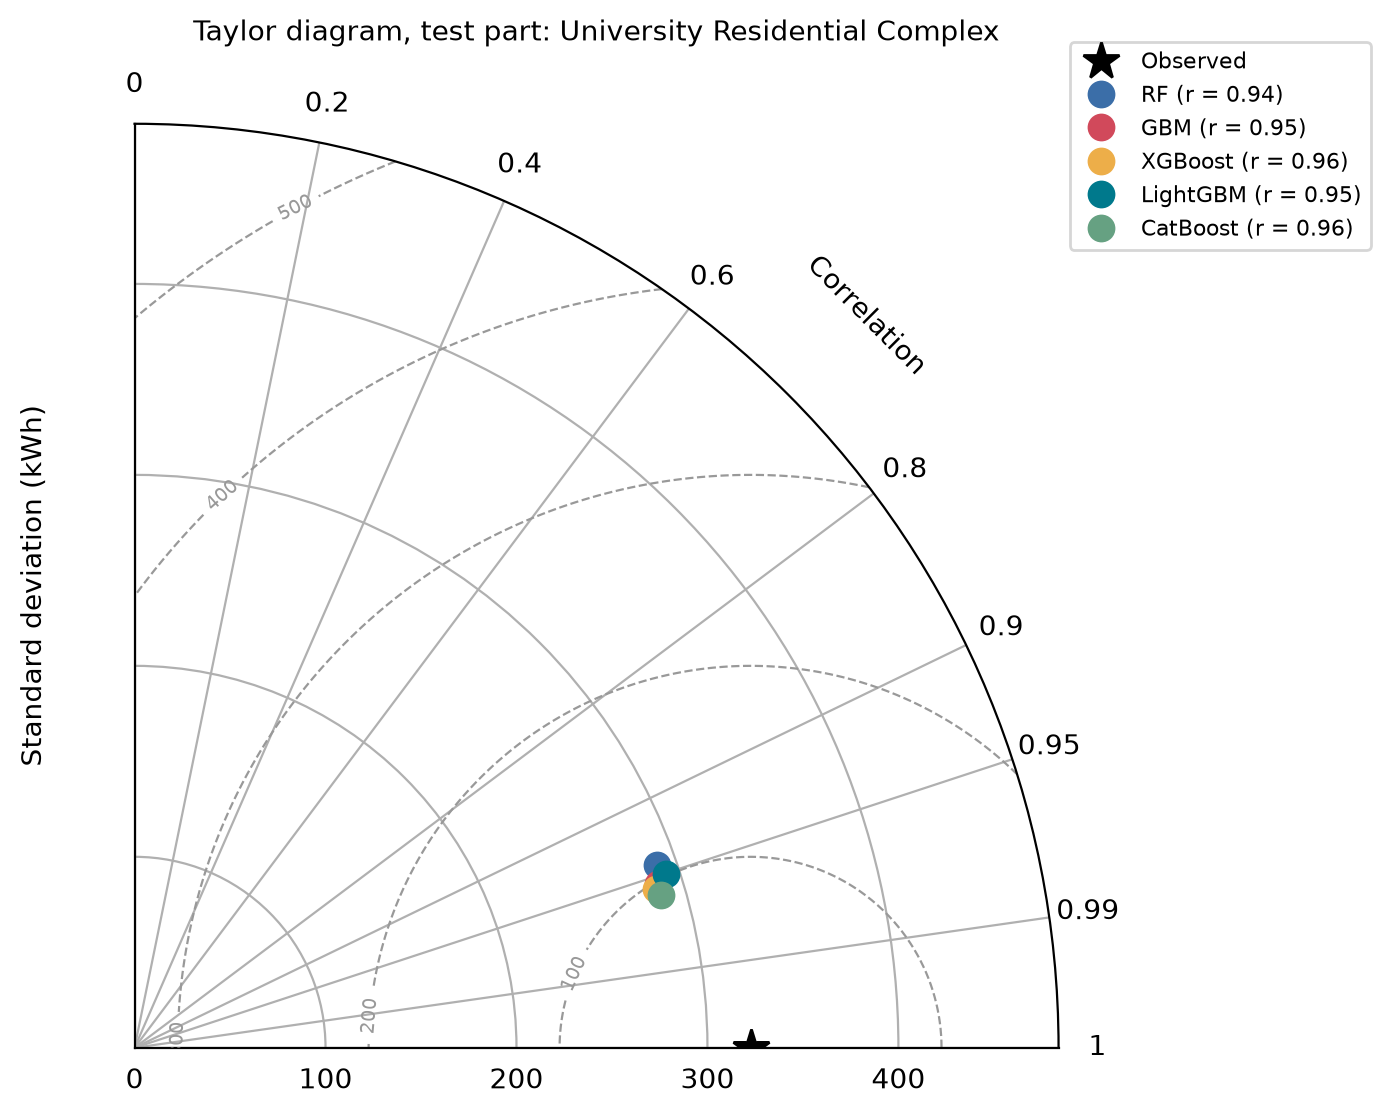
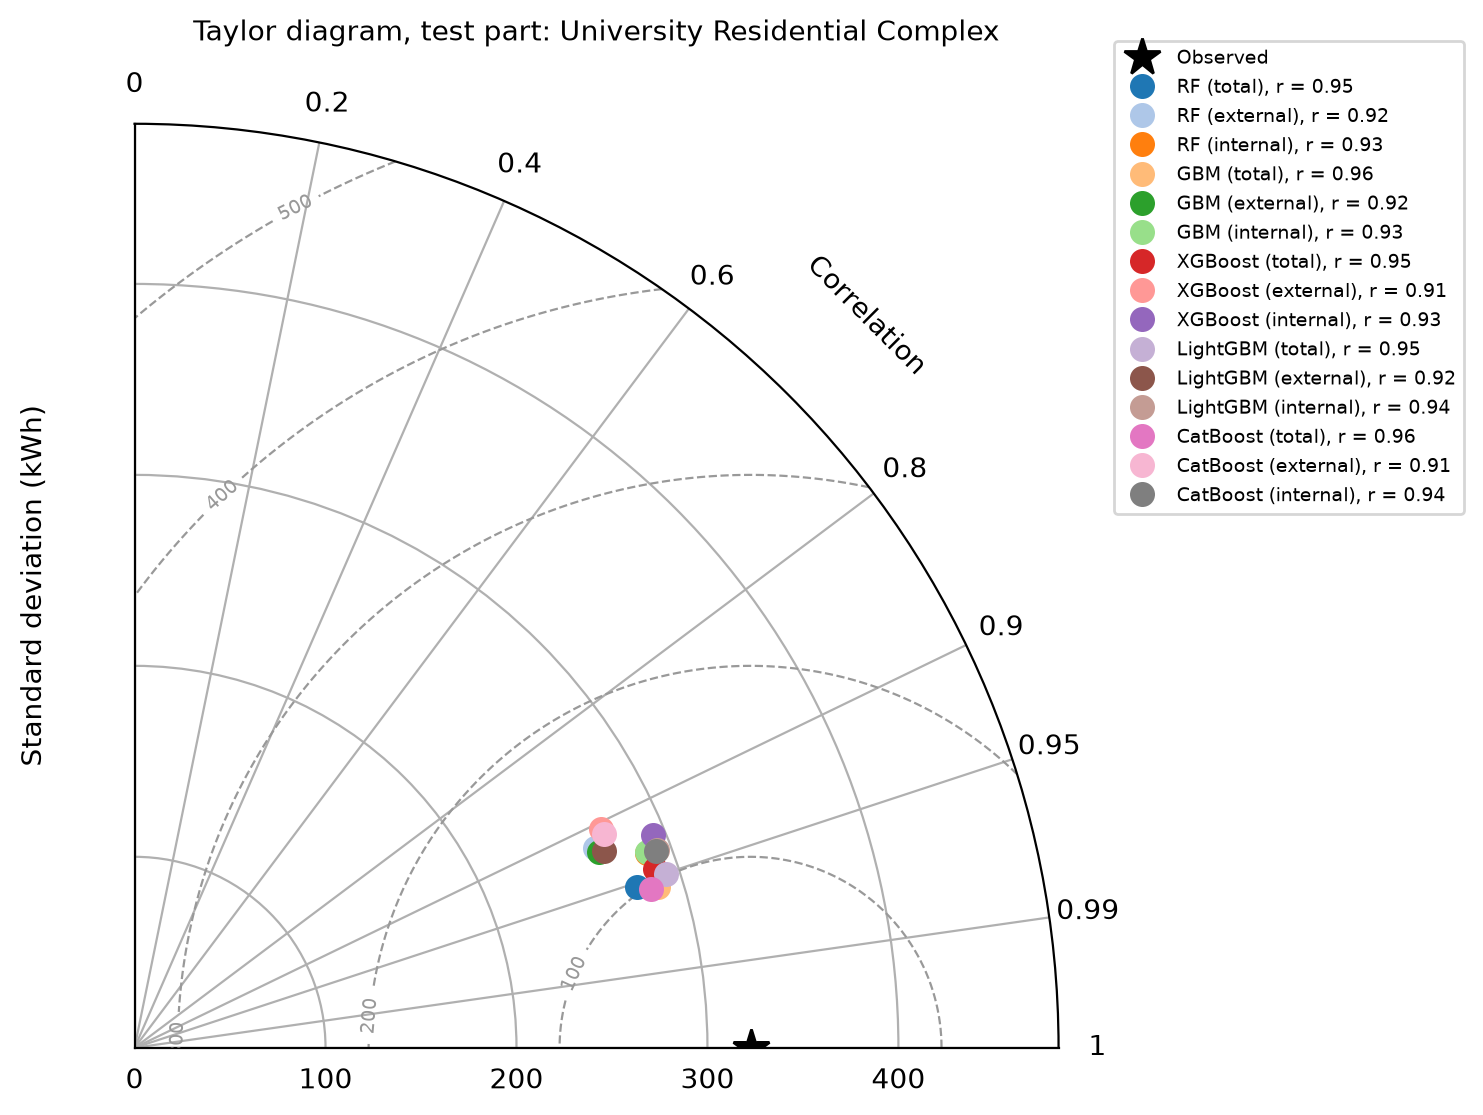
README results summary; final figures in docs/figures

diff --git a/README.md b/README.md
@@ -6,18 +6,50 @@ A from-scratch replication of
 > for residential building electricity consumption forecasting: Insight from explainable artificial intelligence.
 > *PLOS ONE*, 19(11), e0307654. https://doi.org/10.1371/journal.pone.0307654
 
-on both of its datasets: the UCI Appliances Energy Prediction data and the University Residential Complex data
-published in the [authors' repository](https://github.com/sodayeong/PLOS-ONE_Github).
-Every choice the article leaves open is recorded in [docs/replication_notes.md](docs/replication_notes.md).
+on both of its datasets: the UCI Appliances Energy Prediction (AEP) data and the University Residential Complex
+(dormitory) data published in the [authors' repository](https://github.com/sodayeong/PLOS-ONE_Github).
+Every choice the article leaves open is recorded in [docs/replication_notes.md](docs/replication_notes.md); the
+session-by-session history is in [docs/progress_log.md](docs/progress_log.md).
+
+## Results
+
+| Part of the paper | Match | Where |
+|---|---|---|
+| Data, hourly table, 15 inputs (Tables 1-2) | Exact: Table 1 for both datasets; our inputs equal the authors' feature table on all 3,289 hours | `tests/` |
+| Tree ensembles, dormitory (Tables 5-7, 11) | LightGBM, CatBoost exact; GBM within 0.01; RF within 0.05; XGBoost within 0.08 | [docs/results](docs/results) |
+| Tree ensembles, AEP (Tables 8-10, 12) | RF, CatBoost exact; LightGBM within 0.04; GBM, XGBoost within 1-3 points | [docs/results](docs/results) |
+| Taylor diagrams (Figs 2-3) | Point for point | [docs/figures](docs/figures) |
+| SHAP, feature importance, PDP (Figs 4-11) | Figs 4, 8, 10, 11 exact; 5, 9 near-exact; 6-7 close | [docs/figures](docs/figures) |
+| Raw-column experiment (Figs 12-13) | Fig 13 and RF in Fig 12 very close | [docs/figures](docs/figures) |
+| Deep networks (Tables 13-14) | Conclusion holds (the best ensemble beats every network); values close on the dormitory data, much worse on AEP | [docs/results](docs/results) |
+
+**Findings beyond the numbers**
+
+- **The published tables don't come from the tuning the article describes.** A 5-fold grid search per model and
+  input set gives AEP errors up to 18 MAPE points away from the paper. The tables come from one fixed setting per
+  model, hard-coded in the authors' notebook and reused for every input set. With those settings the tables
+  reproduce (CatBoost on AEP matches all 27 values exactly).
+- **Figure 12's R² values are in-sample.** The models reach R² up to 0.96 on the hours they were trained on. On
+  held-out weeks every model scores R² ≤ 0.05.
+- **Figure 11 is CatBoost on the training hours**, not GBM on the test set as the text says.
+- **The Conclusions contradict the tables.** For example, they name GBM with external inputs as best on AEP, while
+  Tables 10 and 12 show CatBoost with all 15 inputs.
+- **Deep networks on AEP overfit** when trained for the article's 100 epochs. The authors' notebook uses early
+  stopping, which the article doesn't mention.
 
 ## Layout
 
 | Path | Contents |
 |---|---|
-| `src/moon2024/` | Data loading, the 15 input variables, metrics |
+| `src/moon2024/data.py`, `features.py` | Hourly tables, the 15 input variables, the train/test split |
+| `src/moon2024/metrics.py` | MAPE, CVRMSE, NMAE, harmonic mean, by day type |
+| `src/moon2024/ensembles.py`, `run_ensembles.py`, `run_match.py` | Grid search, the authors' fixed settings, the search for which setting the paper used |
+| `src/moon2024/run_xai.py`, `taylor.py`, `run_raw_figures.py` | Figures 2-13 |
+| `src/moon2024/run_deep.py` | The ten deep networks (Tables 13-14) |
+| `src/moon2024/paper.py`, `compare.py` | The published tables, and ours next to them |
 | `tests/` | Table 1, the authors' feature table, the split, leakage and metric checks |
-| `kaggle/` | One folder per Kaggle notebook; heavy steps run there, not locally |
-| `docs/` | Replication notes |
+| `kaggle/` | Data download and one generated folder per Kaggle job; heavy steps run there, not locally |
+| `docs/` | Replication notes, progress log, results tables, figures |
 
 ## Running
 
@@ -28,3 +60,7 @@ Data lives in a Kaggle notebook output (`kaggle/get-data`). Locally, put the thr
 pip install -e ".[test]"
 pytest
 ```
+
+Heavy steps run on Kaggle: `python kaggle/make_job.py SLUG [--gpu] -- "run_ensembles fixed --dataset aep --model catboost"`
+writes a job pinned to the current pushed commit, and `kaggle kernels push -p kaggle/jobs/SLUG` runs it. The
+published RF results need scikit-learn 1.9.1.
